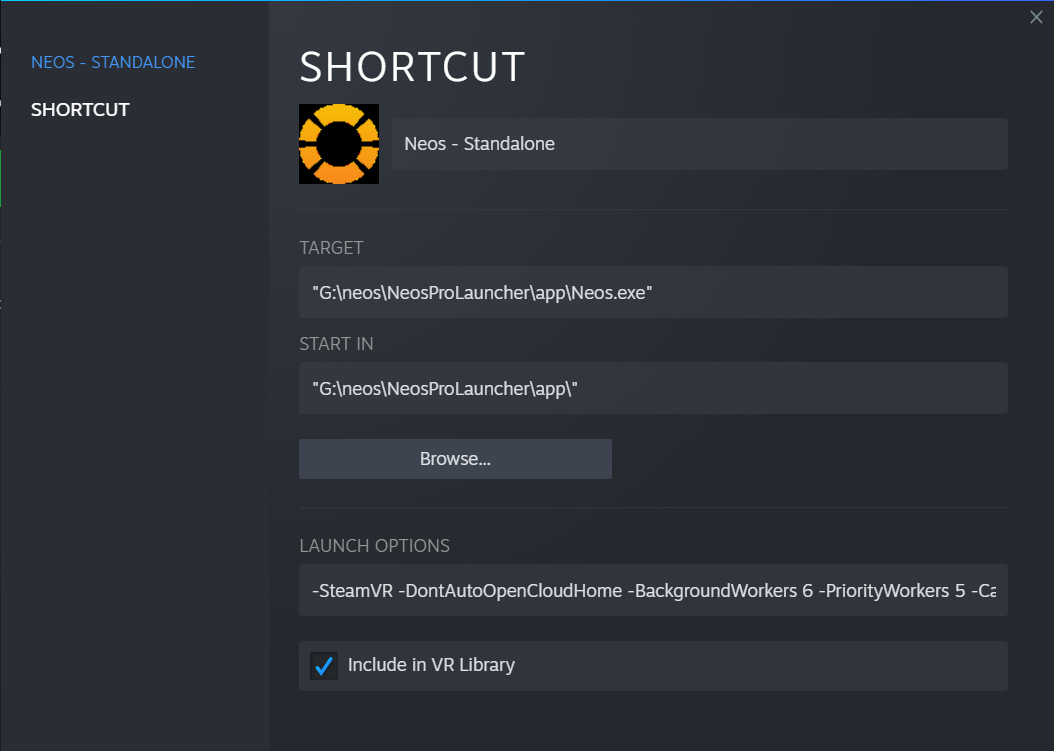
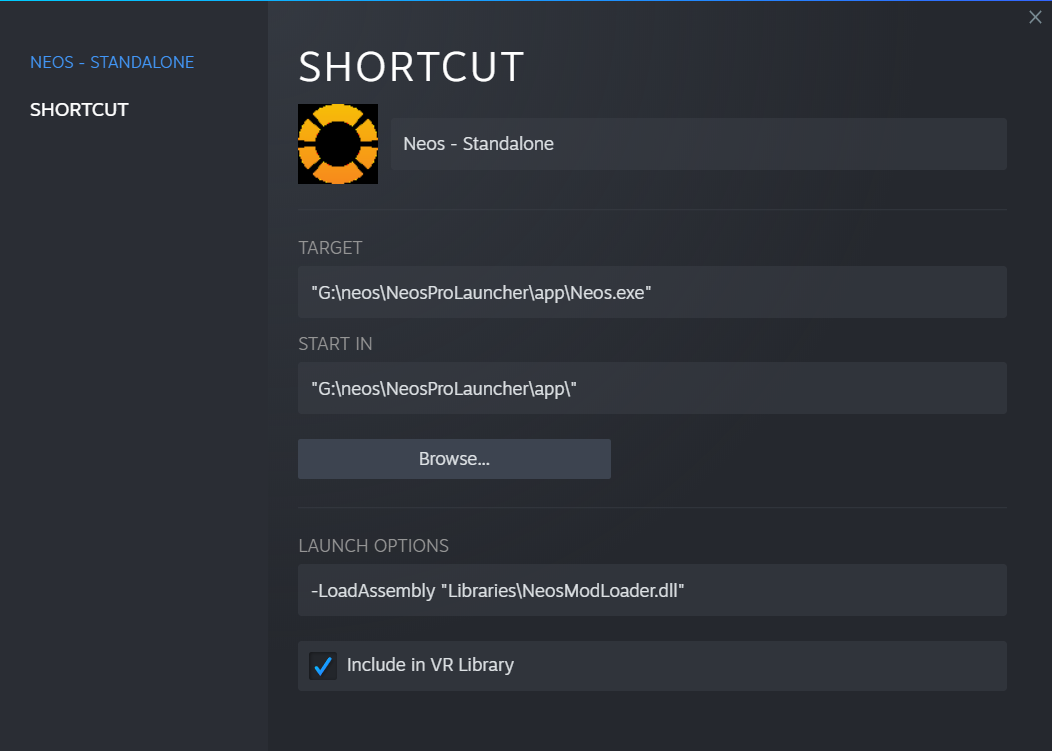
Some clarification to the standalone setup docs

diff --git a/doc/neos_standalone_setup.md b/doc/neos_standalone_setup.md
@@ -2,12 +2,32 @@
 
 How to have steam hour logging, mods, and NCR simultaneously
 
+## Explanation
+
+If you don't care about why we're doing things and just want the steps, skip to the [setup](#setup) section.
+
+First, lets about how Neos is shipped. Both the Steam and standalone versions come with a launcher. This is called NeosLauncher.exe. This is *only* a helper program that launches Neos with extra [command line arguments](https://wiki.neos.com/Command_Line_Arguments). You do not need to launch Neos via NeosLauncher.exe if you have a different way of passing in arguments, for example via Steam's launch options. Next, Neos standalone also comes with a special NeosProLauncher.exe. This application updates the standalone install when opened and can launch Neos, but notably **it cannot pass command line arguments**. This means while we need it for updating, we cannot launch modded Neos using it.
+
+Finally, lets talk Steam integration. As long as Steam is running *before* Neos starts, Neos will hook up with Steam. This enables Steam playtime logging and Steam networking. You do not actually need to launch via Steam, however launching via Steam will guarantee you don't forget to open your Steam client.
+
+So to summarize:
+
+Neos.exe is the actual game. We need to pass special command line arguments to this. There are three commonly used launchers:
+
+| Launcher            | Can update Neos?        | Can pass command line arguments? |
+| ------------------- | ----------------------- | -------------------------------- |
+| NeosLauncher.exe    | No                      | Yes                              |
+| Steam               | Steam version only      | Yes                              |
+| NeosProLauncher.exe | Standalone version only | No                               |
+
+Therefore, my suggestion is you use NeosProLauncher to keep your install updated and a non-Steam game shortcut within steam to actually launch Neos.
+
 ## Setup
 
 1. Grab and run [NeosPublicSetup.exe](https://assets.neos.com/install/NeosPublicSetup.exe)
 2. Install it wherever you want to. The default `C:\Neos` location is fine if you don't have multiple drives to worry about. If you do, check the [drive notes](directories.md/#drive-notes). **Do not merge your standalone install into your Steam install!** While merging installs can technically work it can easily create more problems than it solves.  
    ![NeosPublicSetup.exe screenshot](img/NeosPublicSetup.png)
-3. Go to the directory you installed to and run `NeosProLauncher.exe`. Wait for it to finish patching. **Do not use either of the launch buttons!**  
+3. Go to the directory you installed to and run `NeosProLauncher.exe`. Wait for it to finish patching. **Do not use either of the launch buttons!** We're only using this to update Neos, not launch it.  
    ![NeosProLauncher.exe screenshot](img/NeosProLauncher.png)
 4. Once the pro launcher says it's ready, simply exit it without launching.
 5. Observe that an `app` directory has been created next to `NeosProLauncher.exe`. So, for example, it may be in `C:\Neos\app`. This `app` directory contains the standalone neos install, and contains the `NeosLauncher.exe` and `Neos.exe` that you are familiar with from the Steam install.
@@ -17,12 +37,12 @@ How to have steam hour logging, mods, and NCR simultaneously
 8. Hit the "add selected programs" button.
 9. Right click the newly added game in your library, and go to "properties"  
    ![right click properties screenshot](img/non_steam_game_properties_1.png)
-10. Configure the non-steam game with the same launch options you used on the Steam game. Optionally, give it a more descriptive name and check the "Include in VR Library" checkbox.  
+10. Configure the non-steam game with the same launch options you would use on the Steam version (`-LoadAssembly Libraries\NeosModLoader.dll`). Optionally, give it a more descriptive name and check the "Include in VR Library" checkbox.  
     ![non steam game properties screenshot](img/non_steam_game_properties_2.png)  
 11. Install NeosModLoader into the standalone version [as you normally would for the steam version](../README.md#installation), but using your `C:\Neos\app` directory instead.
 12. Launch Neos using your new non-steam game shortcut. Steam will track playtime on the Steam version of the game even though you are running the standalone version.
 
-## Notes
+## Important Notes
 
 - You will need to run `NeosProLauncher.exe` every time you want to update. You never need actually use its launch buttons, as it does not support launch options which are required for plugins/mods.
 - The logs you're used to finding in `C:\Program Files (x86)\Steam\steamapps\common\NeosVR\Logs` will go to `C:\Neos\app\Logs` now.
